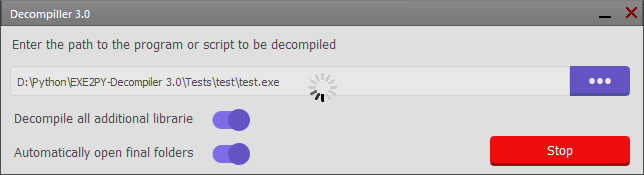
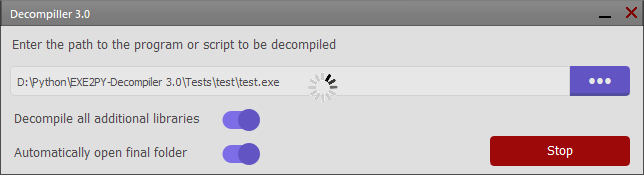
Resized the labels area

diff --git a/ui.py b/ui.py
@@ -370,12 +370,12 @@ class MainWindow(BaseForm):
 
         self.is_need_decompile_sub_libraries_label = QLabel(self.form)
         self.is_need_decompile_sub_libraries_label.setObjectName('decompile_sub_libraries_label')
-        self.is_need_decompile_sub_libraries_label.setGeometry(QtCore.QRect(14, 106, 180, 24))
+        self.is_need_decompile_sub_libraries_label.setGeometry(QtCore.QRect(14, 106, 190, 24))
         self.is_need_decompile_sub_libraries_label.setText('Decompile all additional libraries')
         self.is_need_decompile_sub_libraries_label.setFont(self.font)
 
         self.is_need_decompile_sub_libraries_checkbox = AnimatedToggle(self.form)
-        self.is_need_decompile_sub_libraries_checkbox.move(200, 98)
+        self.is_need_decompile_sub_libraries_checkbox.move(210, 98)
         self.is_need_decompile_sub_libraries_checkbox.setFixedSize(
             self.is_need_decompile_sub_libraries_checkbox.sizeHint()
         )
@@ -383,12 +383,12 @@ class MainWindow(BaseForm):
 
         self.is_need_open_output_folder_label = QLabel(self.form)
         self.is_need_open_output_folder_label.setObjectName('open_output_folder_label')
-        self.is_need_open_output_folder_label.setGeometry(QtCore.QRect(14, 140, 180, 24))
-        self.is_need_open_output_folder_label.setText('Automatically open final folders')
+        self.is_need_open_output_folder_label.setGeometry(QtCore.QRect(14, 140, 190, 24))
+        self.is_need_open_output_folder_label.setText('Automatically open final folder')
         self.is_need_open_output_folder_label.setFont(self.font)
 
         self.is_need_open_output_folder_checkbox = AnimatedToggle(self.form)
-        self.is_need_open_output_folder_checkbox.move(200, 132)
+        self.is_need_open_output_folder_checkbox.move(210, 132)
         self.is_need_open_output_folder_checkbox.setChecked(True)
 
         self.player = GifPlayer(self.form)
